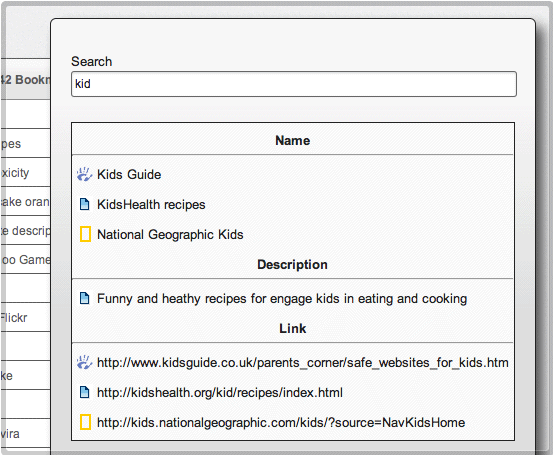
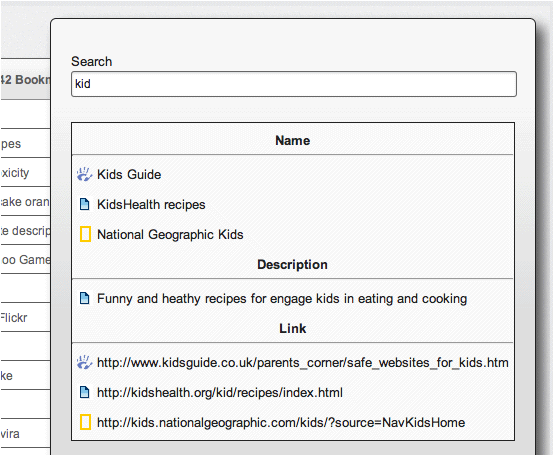
Revisio final

Changed region(s): [[0.0, 0.0, 1.0, 1.0]]

diff --git a/web/templates/basepage_public.html b/web/templates/basepage_public.html
@@ -5,9 +5,9 @@
 	-->
 *}
 {assign var=_diccionari value=$infopag.idioma|cat:'.conf'}
+{config_load file='base.conf' section=$infopag.subseccio}
 {config_load file=$_diccionari section='generics'}
 {config_load file=$_diccionari section=$infopag.subseccio}
-{config_load file='base.conf' section=$infopag.subseccio}
 {if #OPT_PARENT#}
 	{config_load file=$_diccionari section=#OPT_PARENT#}
 {/if}
@@ -83,7 +83,7 @@
 			<p id="peu_signup">
 				<span class="cd_msg">
 					{#AD_SIGN_UP#}
-					<a href="http://services.skaeda.com/?fun=newaccount"><span>{#AD_TRY_IT#}</span></a>
+					<a href="http://services.skaeda.com/?fun=newaccount{#SIGNUP_PARAMS#|istrue:'_self_'}"><span>{#AD_TRY_IT#}</span></a>
 				</span>
 				
 			</p>
@@ -124,12 +124,12 @@
 				<div  class="lang_select">
 					<select name="idiomes" id="combolng" onchange="">
 					{foreach from=$idiomes key=codi item=nom name=loop}
-						<option value="{$codi}|{$_wr}{$transpag.$codi.inici}" {$codi|choice:$infopag.idioma:#_FRSEL#}>{$nom}</option>
+						<option value="{$codi}|{$_wr}{$transpag.$codi[$infopag.subseccio]}" {$codi|choice:$infopag.idioma:#_FRSEL#}>{$nom}</option>
 					{/foreach}	
 					</select>
 					<span class="notext">
 					{foreach from=$idiomes key=codi item=nom name=loop}
-						<a href="{$_wr}{$transpag.$codi.inici}">{$nom}</a>
+						<a href="{$_wr}{$transpag.$codi[$infopag.subseccio]}">{$nom}</a>
 					{/foreach}
 					</span>
 				</div>

diff --git a/web/css/general.css b/web/css/general.css
@@ -405,7 +405,11 @@ ul.menu_h li{
 
 
 #conts .cos .caixa_boto a,
-#conts .cos ul.llista_guia .cd_boto a{outline: 0;}
+#conts .cos ul.llista_guia .cd_boto a
+	{outline: 0;cursor:move;}
+
+
+	
 
 
 #conts .cos .caixa_boto{
@@ -414,7 +418,6 @@ ul.menu_h li{
 }
 
 #conts .cos .caixa_boto img{
-	display:block;
 	margin:0 auto;
 }
 
@@ -439,6 +442,16 @@ ul.menu_h li{
 	left:46px;
 }
 
+#conts .cos .snapshot{position:relative;}
+#conts .cos .snapshot span{
+	display:block;
+	position:absolute;
+	left:0;
+	top:0;
+	width:553px;
+	height:455px;
+	background:url(img/overlay_snapshots.png) no-repeat;
+}
 
 
 
@@ -557,6 +570,7 @@ ul.menu_h li{
 	padding:15px 15px 15px 0;
 	text-align:center;
 }
+
 
 
 
@@ -696,6 +710,7 @@ ul.menu_h li{
 	
 
 }
+
 
 #peu_signup a:hover{
 	background-position:left bottom;

diff --git a/web/templates/instant_synchronization.html b/web/templates/instant_synchronization.html
@@ -4,6 +4,9 @@
 		{include file='submenus.html' incfile=$infopag.subseccio|cat:'.lang.':$infopag.idioma:'.html'}
 	</div>
 	<div class="cos">
-		<img src="{$_wr}img/10-instantsincro.png" alt="{#TITOL#}"/>
+		<div class="snapshot">
+			<img src="{$_wr}img/10-instantsincro.png" alt="{#TITOL#}"/>
+			<span></span>
+		</div>
 	</div>
 </div>

diff --git a/web/templates/bookmarklet.html b/web/templates/bookmarklet.html
@@ -4,6 +4,9 @@
 		{include file='submenus.html' incfile=$infopag.subseccio|cat:'.lang.':$infopag.idioma:'.html'}
 	</div>
 	<div class="cos">
-		<img src="{$_wr}img/09-bookmarklet.png" alt="{#TITOL#}"/>
+		<div class="snapshot">
+			<img src="{$_wr}img/09-bookmarklet.png" alt="{#TITOL#}"/>
+			<span></span>
+		</div>
 	</div>
 </div>

diff --git a/web/templates/bookmark_management.html b/web/templates/bookmark_management.html
@@ -4,7 +4,10 @@
 		{include file='submenus.html' incfile=$infopag.subseccio|cat:'.lang.':$infopag.idioma:'.html'}
 	</div>
 	<div class="cos">
-		<img src="{$_wr}img/05-bookmark.png" alt="{#TITOL#}"/>
+		<div class="snapshot">
+			<img src="{$_wr}img/05-bookmark.png" alt="{#TITOL#}"/>
+			<span></span>
+		</div>
 	</div>
 </div>
 

diff --git a/web/templates/quick_search.html b/web/templates/quick_search.html
@@ -4,7 +4,10 @@
 		{include file='submenus.html' incfile=$infopag.subseccio|cat:'.lang.':$infopag.idioma:'.html'}
 	</div>
 	<div class="cos">
-		<img src="{$_wr}img/06-quick.png" alt="{#TITOL#}"/>
+		<div class="snapshot">
+			<img src="{$_wr}img/06-quick.png" alt="{#TITOL#}"/>
+			<span></span>
+		</div>
 	</div>
 </div>
 

diff --git a/web/templates/smart_manual_groups.html b/web/templates/smart_manual_groups.html
@@ -4,7 +4,10 @@
 		{include file='submenus.html' incfile=$infopag.subseccio|cat:'.lang.':$infopag.idioma:'.html'}
 	</div>
 	<div class="cos">
-		<img src="{$_wr}img/03-smart.png" alt="{#TITOL#}"/>
+		<div class="snapshot">
+			<img src="{$_wr}img/03-smart.png" alt="{#TITOL#}"/>
+			<span></span>
+		</div>
 	</div>
 </div>
 

diff --git a/web/templates/import_and_export.html b/web/templates/import_and_export.html
@@ -4,6 +4,9 @@
 		{include file='submenus.html' incfile=$infopag.subseccio|cat:'.lang.':$infopag.idioma:'.html'}
 	</div>
 	<div class="cos">
+		<div class="snapshot">
 		<img src="{$_wr}img/07-importsexports.png" alt="{#TITOL#}"/>
+			<span></span>
+		</div>
 	</div>
 </div>

diff --git a/web/templates/general_structure.html b/web/templates/general_structure.html
@@ -5,7 +5,10 @@
 	</div>
 	<div class="cos">
 
-		<img src="{$_wr}img/02-general.png" alt="{#TITOL#}"/>
+		<div class="snapshot">
+			<img src="{$_wr}img/02-general.png" alt="{#TITOL#}"/>
+			<span></span>
+		</div>
 
 	</div>
 </div>
